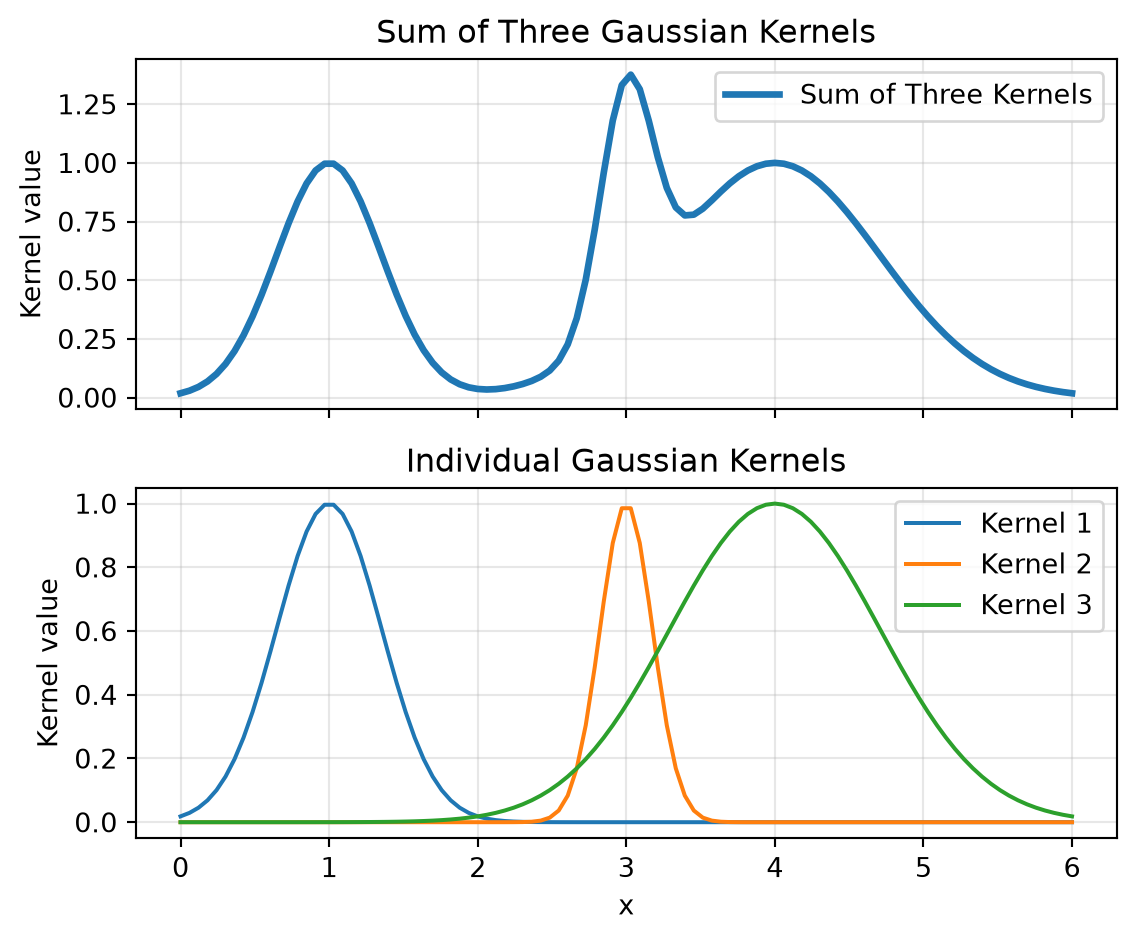
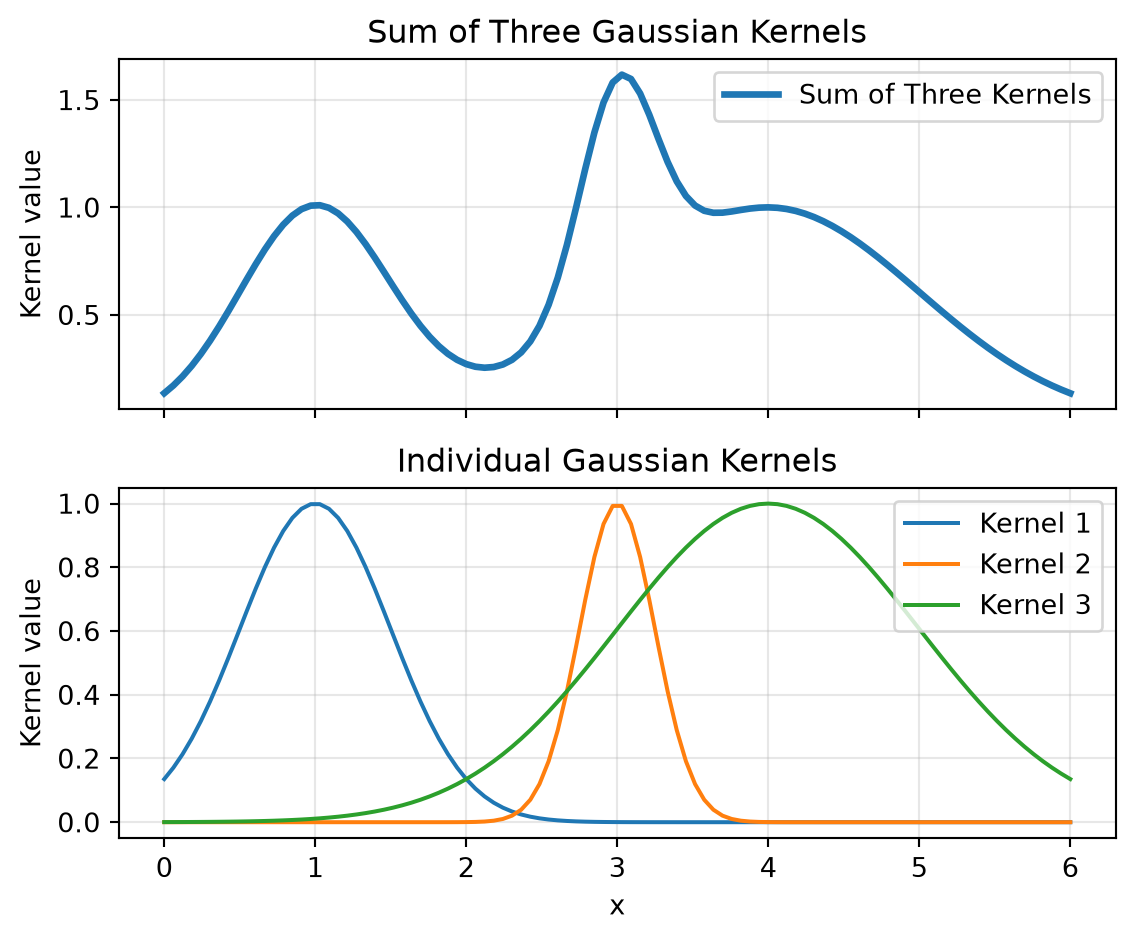
tues morn revisions

diff --git a/_book/5_Nonlinearity.html b/_book/5_Nonlinearity.html
@@ -293,15 +293,15 @@ E[Y \mid x] = \beta_0 + \sum_{j=1}^{k} \beta_i K\left(\frac{x-c_i}{h}\right)
 <p>Linear combinations of multiple kernel functions can be used in a model, depending on the dataset. At the tails of the dataset, the model reverts back to a value of <span class="math inline">\(\beta_0\)</span>.</p>
 <p>Many options can be used for the kernel function, including any function proportional to a density function.</p>
 <p>A plot was also created to show how kernel functions sum to create the regression equation. For this example, 3 kernel functions were used. First, a simulated dataset was created from 0 to 6.</p>
-<div id="b2adfae5" class="cell" data-execution_count="1">
+<div id="a457bd4a" class="cell" data-execution_count="1">
 <div class="code-copy-outer-scaffold"><div class="sourceCode cell-code" id="cb1"><pre class="sourceCode python code-with-copy"><code class="sourceCode python"><span id="cb1-1"><a href="#cb1-1" aria-hidden="true" tabindex="-1"></a><span class="im">import</span> numpy <span class="im">as</span> np</span>
 <span id="cb1-2"><a href="#cb1-2" aria-hidden="true" tabindex="-1"></a></span>
-<span id="cb1-3"><a href="#cb1-3" aria-hidden="true" tabindex="-1"></a><span class="co"># simulated dataset of sine wave</span></span>
+<span id="cb1-3"><a href="#cb1-3" aria-hidden="true" tabindex="-1"></a><span class="co"># simulated dataset</span></span>
 <span id="cb1-4"><a href="#cb1-4" aria-hidden="true" tabindex="-1"></a>np.random.seed(<span class="dv">1</span>)</span>
 <span id="cb1-5"><a href="#cb1-5" aria-hidden="true" tabindex="-1"></a>x <span class="op">=</span> np.linspace(<span class="dv">0</span>, <span class="dv">6</span>, <span class="dv">100</span>)</span></code></pre></div><button title="Copy to Clipboard" class="code-copy-button"><i class="bi"></i></button></div>
 </div>
 <p>Next, 3 kernel functions were created by defining their centers, c, widths, h, and using a Gaussian equation. The 3 kernel functions were summed to simulate a regression plot.</p>
-<div id="d1293a28" class="cell" data-execution_count="2">
+<div id="793039cf" class="cell" data-execution_count="2">
 <div class="code-copy-outer-scaffold"><div class="sourceCode cell-code" id="cb2"><pre class="sourceCode python code-with-copy"><code class="sourceCode python"><span id="cb2-1"><a href="#cb2-1" aria-hidden="true" tabindex="-1"></a><span class="co"># select three kernel centers</span></span>
 <span id="cb2-2"><a href="#cb2-2" aria-hidden="true" tabindex="-1"></a>c_1 <span class="op">=</span> <span class="dv">1</span></span>
 <span id="cb2-3"><a href="#cb2-3" aria-hidden="true" tabindex="-1"></a>c_2 <span class="op">=</span> <span class="dv">3</span></span>
@@ -313,15 +313,15 @@ E[Y \mid x] = \beta_0 + \sum_{j=1}^{k} \beta_i K\left(\frac{x-c_i}{h}\right)
 <span id="cb2-9"><a href="#cb2-9" aria-hidden="true" tabindex="-1"></a>h_3 <span class="op">=</span> <span class="dv">1</span></span>
 <span id="cb2-10"><a href="#cb2-10" aria-hidden="true" tabindex="-1"></a></span>
 <span id="cb2-11"><a href="#cb2-11" aria-hidden="true" tabindex="-1"></a><span class="co"># define Gaussian kernels</span></span>
-<span id="cb2-12"><a href="#cb2-12" aria-hidden="true" tabindex="-1"></a>kernel_1 <span class="op">=</span> np.exp(<span class="op">-</span>((x <span class="op">-</span> c_1) <span class="op">/</span> h_1)<span class="op">**</span><span class="dv">2</span>)</span>
-<span id="cb2-13"><a href="#cb2-13" aria-hidden="true" tabindex="-1"></a>kernel_2 <span class="op">=</span> np.exp(<span class="op">-</span>((x <span class="op">-</span> c_2) <span class="op">/</span> h_2)<span class="op">**</span><span class="dv">2</span>)</span>
-<span id="cb2-14"><a href="#cb2-14" aria-hidden="true" tabindex="-1"></a>kernel_3 <span class="op">=</span> np.exp(<span class="op">-</span>((x <span class="op">-</span> c_3) <span class="op">/</span> h_3)<span class="op">**</span><span class="dv">2</span>)</span>
+<span id="cb2-12"><a href="#cb2-12" aria-hidden="true" tabindex="-1"></a>kernel_1 <span class="op">=</span> np.exp(<span class="op">-</span><span class="fl">0.5</span><span class="op">*</span>((x <span class="op">-</span> c_1) <span class="op">/</span> h_1)<span class="op">**</span><span class="dv">2</span>)</span>
+<span id="cb2-13"><a href="#cb2-13" aria-hidden="true" tabindex="-1"></a>kernel_2 <span class="op">=</span> np.exp(<span class="op">-</span><span class="fl">0.5</span><span class="op">*</span>((x <span class="op">-</span> c_2) <span class="op">/</span> h_2)<span class="op">**</span><span class="dv">2</span>)</span>
+<span id="cb2-14"><a href="#cb2-14" aria-hidden="true" tabindex="-1"></a>kernel_3 <span class="op">=</span> np.exp(<span class="op">-</span><span class="fl">0.5</span><span class="op">*</span>((x <span class="op">-</span> c_3) <span class="op">/</span> h_3)<span class="op">**</span><span class="dv">2</span>)</span>
 <span id="cb2-15"><a href="#cb2-15" aria-hidden="true" tabindex="-1"></a></span>
 <span id="cb2-16"><a href="#cb2-16" aria-hidden="true" tabindex="-1"></a><span class="co"># sum three kernels</span></span>
 <span id="cb2-17"><a href="#cb2-17" aria-hidden="true" tabindex="-1"></a>kernel_sum <span class="op">=</span> kernel_1 <span class="op">+</span> kernel_2 <span class="op">+</span> kernel_3</span></code></pre></div><button title="Copy to Clipboard" class="code-copy-button"><i class="bi"></i></button></div>
 </div>
 <p>Finally, a stacked plot was created to show all 3 kernel functions and their summation.</p>
-<div id="e9ba6843" class="cell" data-execution_count="3">
+<div id="905a2272" class="cell" data-execution_count="3">
 <div class="code-copy-outer-scaffold"><div class="sourceCode cell-code" id="cb3"><pre class="sourceCode python code-with-copy"><code class="sourceCode python"><span id="cb3-1"><a href="#cb3-1" aria-hidden="true" tabindex="-1"></a><span class="im">import</span> matplotlib.pyplot <span class="im">as</span> plt</span>
 <span id="cb3-2"><a href="#cb3-2" aria-hidden="true" tabindex="-1"></a><span class="co"># Create two vertically stacked subplots</span></span>
 <span id="cb3-3"><a href="#cb3-3" aria-hidden="true" tabindex="-1"></a>fig, axes <span class="op">=</span> plt.subplots(<span class="dv">2</span>, <span class="dv">1</span>, figsize<span class="op">=</span>(<span class="dv">6</span>, <span class="dv">5</span>), sharex<span class="op">=</span><span class="va">True</span>)</span>
@@ -348,7 +348,7 @@ E[Y \mid x] = \beta_0 + \sum_{j=1}^{k} \beta_i K\left(\frac{x-c_i}{h}\right)
 <div class="cell-output cell-output-display">
 <div>
 <figure class="figure">
-<p><img src="5_Nonlinearity_files/figure-html/cell-4-output-1.png" width="568" height="470" class="figure-img"></p>
+<p><img src="5_Nonlinearity_files/figure-html/cell-4-output-1.png" width="567" height="470" class="figure-img"></p>
 </figure>
 </div>
 </div>
@@ -360,7 +360,7 @@ E[Y \mid x] = \beta_0 + \sum_{j=1}^{k} \beta_i K\left(\frac{x-c_i}{h}\right)
 <section id="simulated-dataset" class="level3" data-number="6.2.1">
 <h3 data-number="6.2.1" class="anchored" data-anchor-id="simulated-dataset"><span class="header-section-number">6.2.1</span> Simulated Dataset</h3>
 <p>A simulated dataset was used to show the code implementation of each of the basis expansion methods. The dataset used was a noisy sine wave. The sine wave was created over a single period from 0 to <span class="math inline">\(2\pi\)</span>. Random noise was generated from a normal distribution with a mean of 0 and standard deviation of 0.2. This random noise was added to the noise wave to produce the example dataset. The dataset was then plotted.</p>
-<div id="6d4b5397" class="cell" data-execution_count="4">
+<div id="cc6f5287" class="cell" data-execution_count="4">
 <div class="code-copy-outer-scaffold"><div class="sourceCode cell-code" id="cb4"><pre class="sourceCode python code-with-copy"><code class="sourceCode python"><span id="cb4-1"><a href="#cb4-1" aria-hidden="true" tabindex="-1"></a><span class="im">import</span> numpy <span class="im">as</span> np</span>
 <span id="cb4-2"><a href="#cb4-2" aria-hidden="true" tabindex="-1"></a><span class="im">import</span> matplotlib.pyplot <span class="im">as</span> plt</span>
 <span id="cb4-3"><a href="#cb4-3" aria-hidden="true" tabindex="-1"></a></span>
@@ -397,7 +397,7 @@ E[Y \mid x] = \beta_0 + \sum_{j=1}^{k} \beta_i K\left(\frac{x-c_i}{h}\right)
 E[Y \mid x] = \beta_0 + \beta_1 x + \beta_2 x^2 + \cdots + \beta_d x^d
 \]</span></p>
 <p>TEXT HERE</p>
-<div id="7f7ac527" class="cell" data-execution_count="5">
+<div id="c09571c6" class="cell" data-execution_count="5">
 <div class="code-copy-outer-scaffold"><div class="sourceCode cell-code" id="cb5"><pre class="sourceCode python code-with-copy"><code class="sourceCode python"><span id="cb5-1"><a href="#cb5-1" aria-hidden="true" tabindex="-1"></a><span class="im">from</span> sklearn.linear_model <span class="im">import</span> LinearRegression</span>
 <span id="cb5-2"><a href="#cb5-2" aria-hidden="true" tabindex="-1"></a><span class="im">from</span> sklearn.preprocessing <span class="im">import</span> PolynomialFeatures</span>
 <span id="cb5-3"><a href="#cb5-3" aria-hidden="true" tabindex="-1"></a></span>
@@ -1421,7 +1421,7 @@ forceTheme('sk-container-id-1');</script>
 </div>
 </div>
 <p>TEXT HERE</p>
-<div id="20371979" class="cell" data-execution_count="6">
+<div id="05f6cc3f" class="cell" data-execution_count="6">
 <div class="code-copy-outer-scaffold"><div class="sourceCode cell-code" id="cb6"><pre class="sourceCode python code-with-copy"><code class="sourceCode python"><span id="cb6-1"><a href="#cb6-1" aria-hidden="true" tabindex="-1"></a><span class="co"># make predictions</span></span>
 <span id="cb6-2"><a href="#cb6-2" aria-hidden="true" tabindex="-1"></a>y_pred_nat_poly <span class="op">=</span> nat_poly_model.predict(X_poly)</span>
 <span id="cb6-3"><a href="#cb6-3" aria-hidden="true" tabindex="-1"></a></span>
@@ -1470,7 +1470,7 @@ forceTheme('sk-container-id-1');</script>
 <section id="kernels-1" class="level3" data-number="6.2.4">
 <h3 data-number="6.2.4" class="anchored" data-anchor-id="kernels-1"><span class="header-section-number">6.2.4</span> Kernels</h3>
 <p>The rbf_kernel library from sklearn was used to construct the kernel functions. A total of 10 kernel functions were used. Their centers were placed evenly across the range of x, from 0 to <span class="math inline">\(2\pi\)</span>. The hyperparameter <span class="math inline">\(h\)</span> was set to 0.5 for all kernel functions.</p>
-<div id="ef0d3405" class="cell" data-execution_count="7">
+<div id="620e81c4" class="cell" data-execution_count="7">
 <div class="code-copy-outer-scaffold"><div class="sourceCode cell-code" id="cb7"><pre class="sourceCode python code-with-copy"><code class="sourceCode python"><span id="cb7-1"><a href="#cb7-1" aria-hidden="true" tabindex="-1"></a><span class="im">from</span> sklearn.metrics.pairwise <span class="im">import</span> rbf_kernel</span>
 <span id="cb7-2"><a href="#cb7-2" aria-hidden="true" tabindex="-1"></a></span>
 <span id="cb7-3"><a href="#cb7-3" aria-hidden="true" tabindex="-1"></a><span class="co"># number of kernel functions used</span></span>
@@ -1483,7 +1483,7 @@ forceTheme('sk-container-id-1');</script>
 <span id="cb7-10"><a href="#cb7-10" aria-hidden="true" tabindex="-1"></a>h <span class="op">=</span> <span class="fl">0.5</span></span></code></pre></div><button title="Copy to Clipboard" class="code-copy-button"><i class="bi"></i></button></div>
 </div>
 <p>Then the <span class="math inline">\(h\)</span> hyperparameter was converted to the <span class="math inline">\(\gamma\)</span> hyperparameter needed for the kernel function in the rbf_kernel library. Then the kernel functions were calculated.</p>
-<div id="dd591681" class="cell" data-execution_count="8">
+<div id="4e50b19e" class="cell" data-execution_count="8">
 <div class="code-copy-outer-scaffold"><div class="sourceCode cell-code" id="cb8"><pre class="sourceCode python code-with-copy"><code class="sourceCode python"><span id="cb8-1"><a href="#cb8-1" aria-hidden="true" tabindex="-1"></a><span class="co"># convert h to gamma hyperparameter from sklearn rbf_kernel library</span></span>
 <span id="cb8-2"><a href="#cb8-2" aria-hidden="true" tabindex="-1"></a>gamma <span class="op">=</span> <span class="dv">1</span> <span class="op">/</span> (<span class="dv">2</span> <span class="op">*</span> h<span class="op">**</span><span class="dv">2</span>)</span>
 <span id="cb8-3"><a href="#cb8-3" aria-hidden="true" tabindex="-1"></a></span>
@@ -1495,7 +1495,7 @@ forceTheme('sk-container-id-1');</script>
 <span id="cb8-9"><a href="#cb8-9" aria-hidden="true" tabindex="-1"></a>X_kernel <span class="op">=</span> rbf_kernel(X, C, gamma<span class="op">=</span>gamma)</span></code></pre></div><button title="Copy to Clipboard" class="code-copy-button"><i class="bi"></i></button></div>
 </div>
 <p>Finally, the kernel model was fit and used to make predictions. The resulting model was included on the plot with the noisy sine data to show its effectiveness.</p>
-<div id="da950bb6" class="cell" data-execution_count="9">
+<div id="1b9e5520" class="cell" data-execution_count="9">
 <div class="code-copy-outer-scaffold"><div class="sourceCode cell-code" id="cb9"><pre class="sourceCode python code-with-copy"><code class="sourceCode python"><span id="cb9-1"><a href="#cb9-1" aria-hidden="true" tabindex="-1"></a><span class="im">from</span> sklearn.linear_model <span class="im">import</span> LinearRegression</span>
 <span id="cb9-2"><a href="#cb9-2" aria-hidden="true" tabindex="-1"></a></span>
 <span id="cb9-3"><a href="#cb9-3" aria-hidden="true" tabindex="-1"></a><span class="co"># fit model</span></span>
